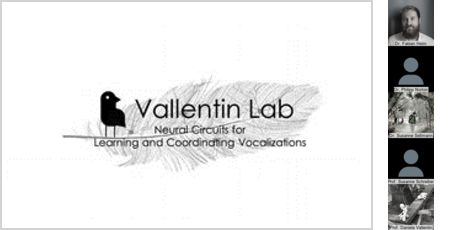
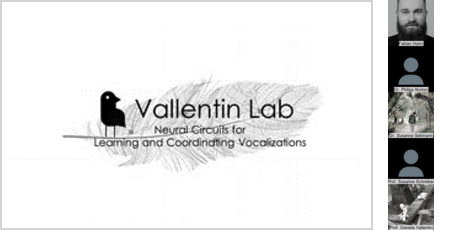
new authors

Changed region(s): [[0.84, 0.0, 0.9644, 0.213]]

diff --git a/content/authors/yongtian-liang/_index.md b/content/authors/yongtian-liang/_index.md
@@ -1,16 +1,16 @@
 ---
 # Display name
-name: Fabian Heim
+name: Yongtian Liang
 
 # Username (this should match the folder name)
 authors:
-- fabian-heim
+- yongtian-liang
 
 # Is this the primary user of the site?
 superuser: false
 
 # Role/position
-role: Post-doc
+role: PhD student
 
 # Organizations/Affiliations
 organizations:
@@ -18,7 +18,7 @@ organizations:
   url: ""
 
 # Short bio (displayed in user profile at end of posts)
-bio: Songbirdscientist. Postdoctoral researcher investigating inhibitory impact in imitation learning.
+bio: PhD student in project A08
 
 # Social/Academic Networking
 # For available icons, see: https://sourcethemes.com/academic/docs/widgets/#icons
@@ -27,13 +27,10 @@ bio: Songbirdscientist. Postdoctoral researcher investigating inhibitory impact 
 social:
 - icon: globe 
   icon_pack: fas 
-  link: https://vallentinlab.com/
-- icon: twitter 
-  icon_pack: fab 
-  link: https://twitter.com/songbirdbrain
+  link: https://www.activezone-berlin.de/
 - icon: orcid 
   icon_pack: ai 
-  link: https://orcid.org/0000-0001-8988-0793
+  link: https://orcid.org/0000-0002-5802-1045
 # - icon: envelope
 #   icon_pack: fas
 #   link: '#contact'  # For a direct email link, use "mailto:julien.colomb@fu-berlin.de".
@@ -66,4 +63,4 @@ social:
 # - Visitors
 ---
 
-Songbirdscientist. Postdoctoral researcher investigating inhibitory impact in imitation learning.
+PhD student in project A08

diff --git a/content/project/A08/index.md b/content/project/A08/index.md
@@ -3,7 +3,7 @@
 
 title: "A08: Convergent deficits of memory consolidation in aged and sleep-deprived Drosophila"
 summary: ""
-authors: ["torsten-goetz","yongtian-lian","sheng-huang","stephan-sigrist"]
+authors: ["torsten-goetz","yongtian-liang","sheng-huang","stephan-sigrist"]
 tags: []
 categories: []
 date: 2019-12-16T10:31:52+01:00
